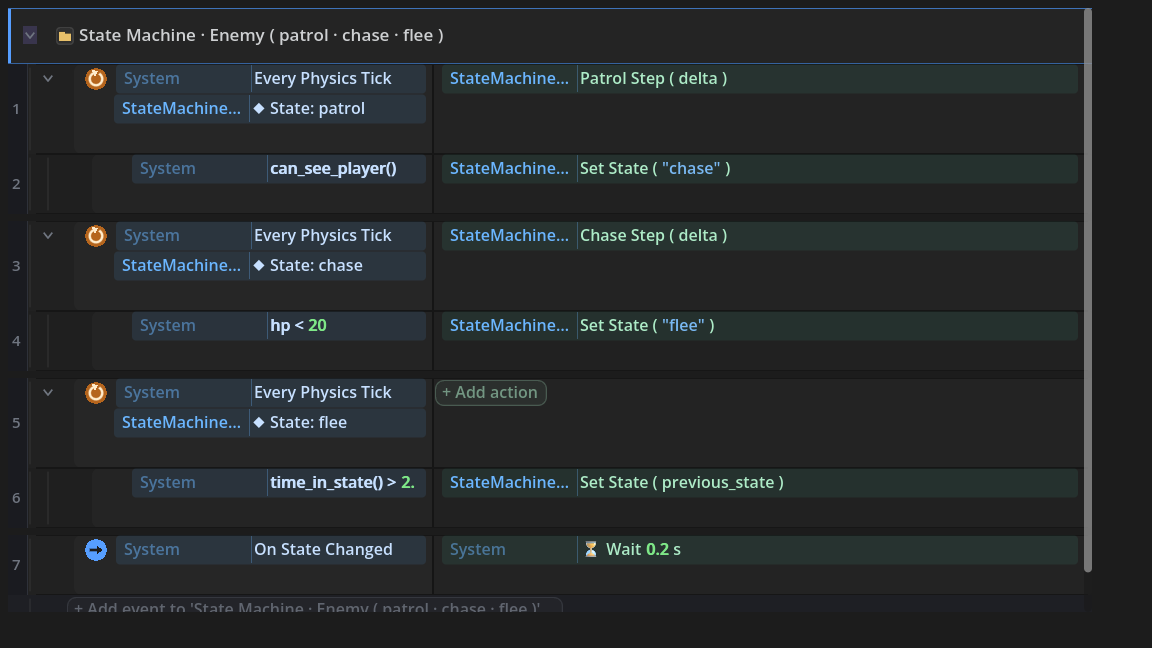
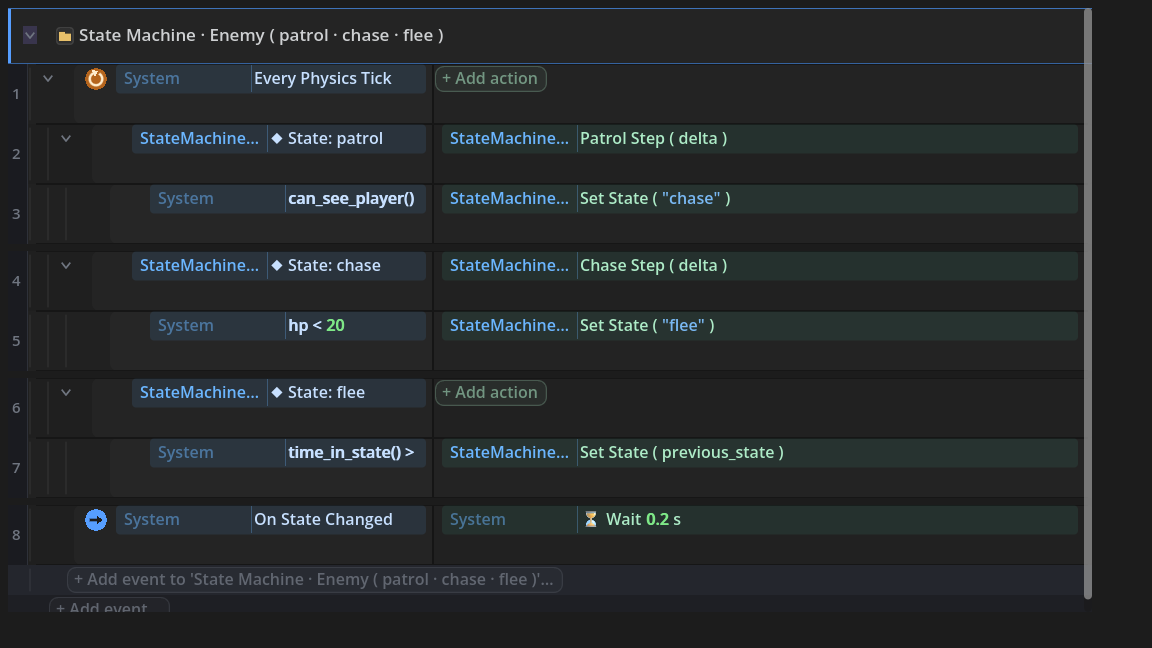
docs: the state machine is one physics-tick event with states as sub-events
The nesting mirrors the code's own tabs: the tick event is
_physics_process, each state sub-event a match branch one tab in, each
transition the if one tab deeper.

diff --git a/docs/GUIDE-COMMON-GAME-PATTERNS.md b/docs/GUIDE-COMMON-GAME-PATTERNS.md
@@ -75,12 +75,14 @@ statement, and transition bookkeeping becomes vocabulary:
   then go back" is `Time In State > 2` then `Set State previous_state`.
 - **previous_state** always holds where you came from.
 
-The shape that reads best: one named group for the machine, one PARENT event per state (its
-condition renders as the `◆ State:` header), and everything the state does or leaves through as
-SUB-EVENTS beneath it - each transition gets its own condition lane, so piling on more guards
-later ("and cooldown ready", "and player still visible") never means restructuring.
+The shape that reads best: one named group for the machine, ONE **Every Physics Tick** event,
+each STATE as a sub-event under it (its condition renders as the `◆ State:` header), and each
+transition nested one level deeper with its own condition lane - so piling on more guards later
+("and cooldown ready", "and player still visible") never means restructuring. The nesting is
+exactly the code's own indentation: the tick event is `_physics_process`, each state sub-event
+is a `match` branch one tab in, each transition the `if` one tab deeper.
 
-![A state machine as a consumer writes it: one group, state parents, transitions as sub-events](images/code-patterns-state-machine.png)
+![A state machine as a consumer writes it: one tick event, states as sub-events, transitions nested deeper](images/code-patterns-state-machine.png)
 
 ## Pick one node out of a group
 
